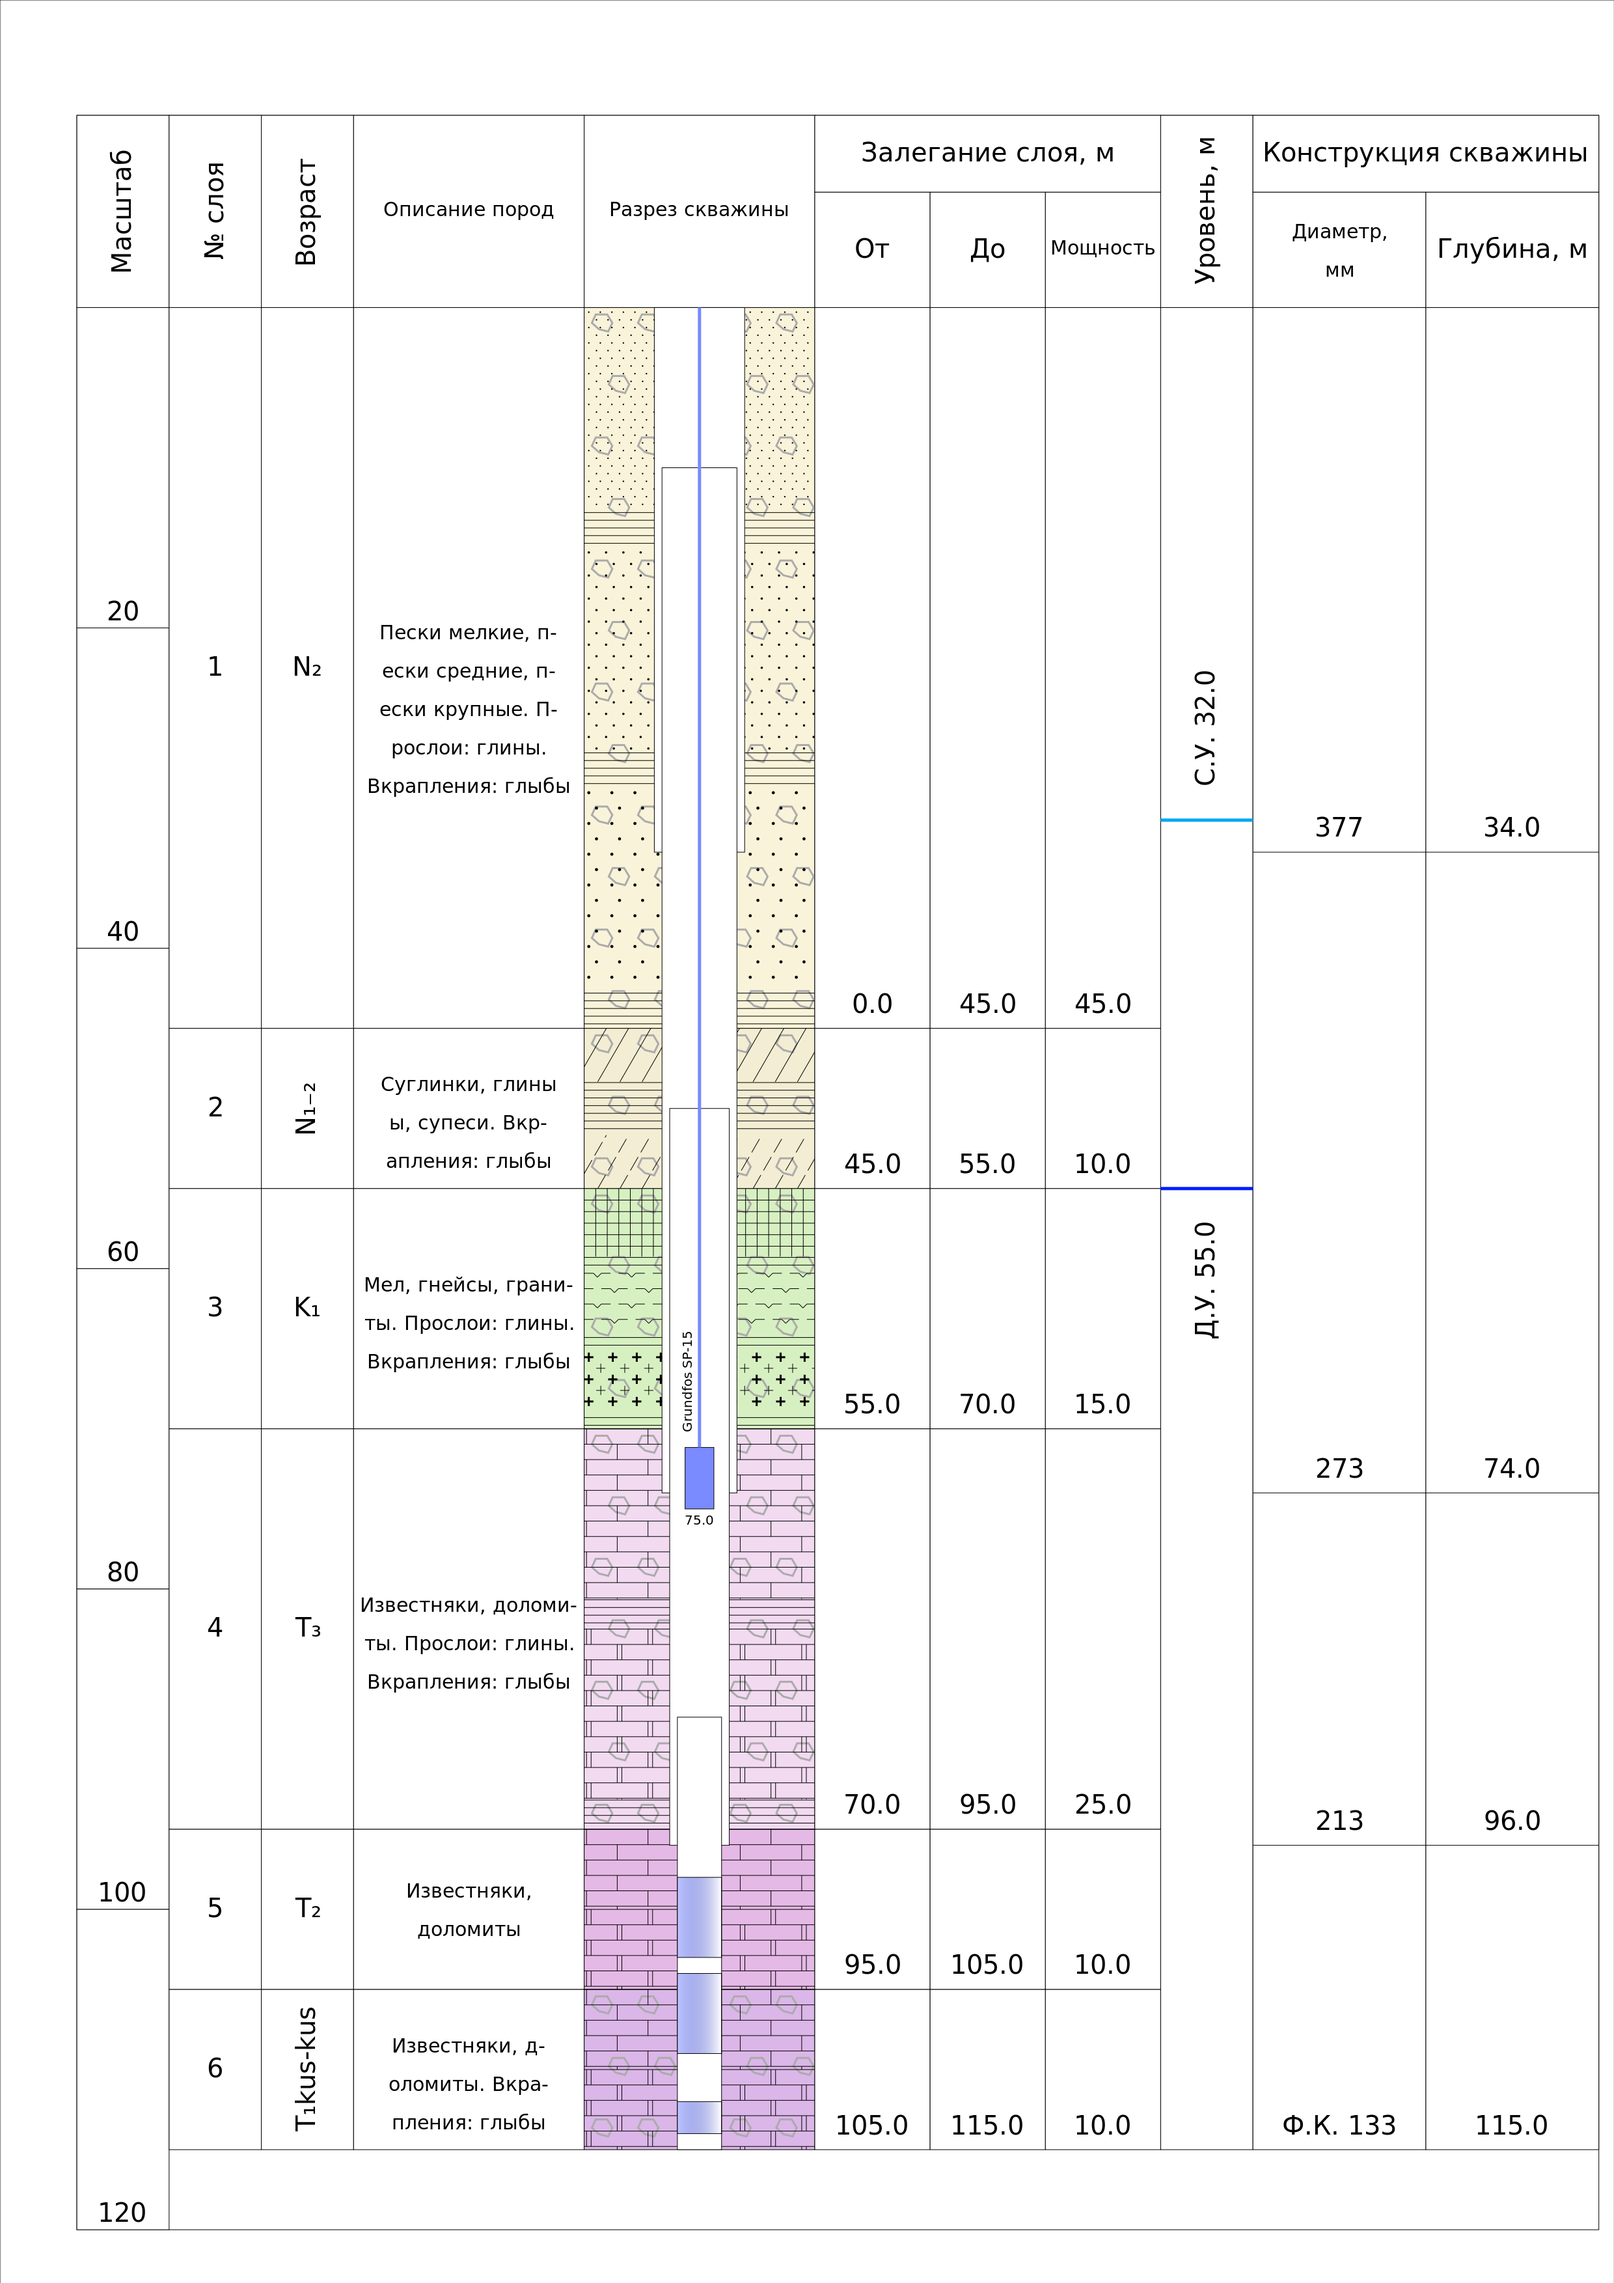
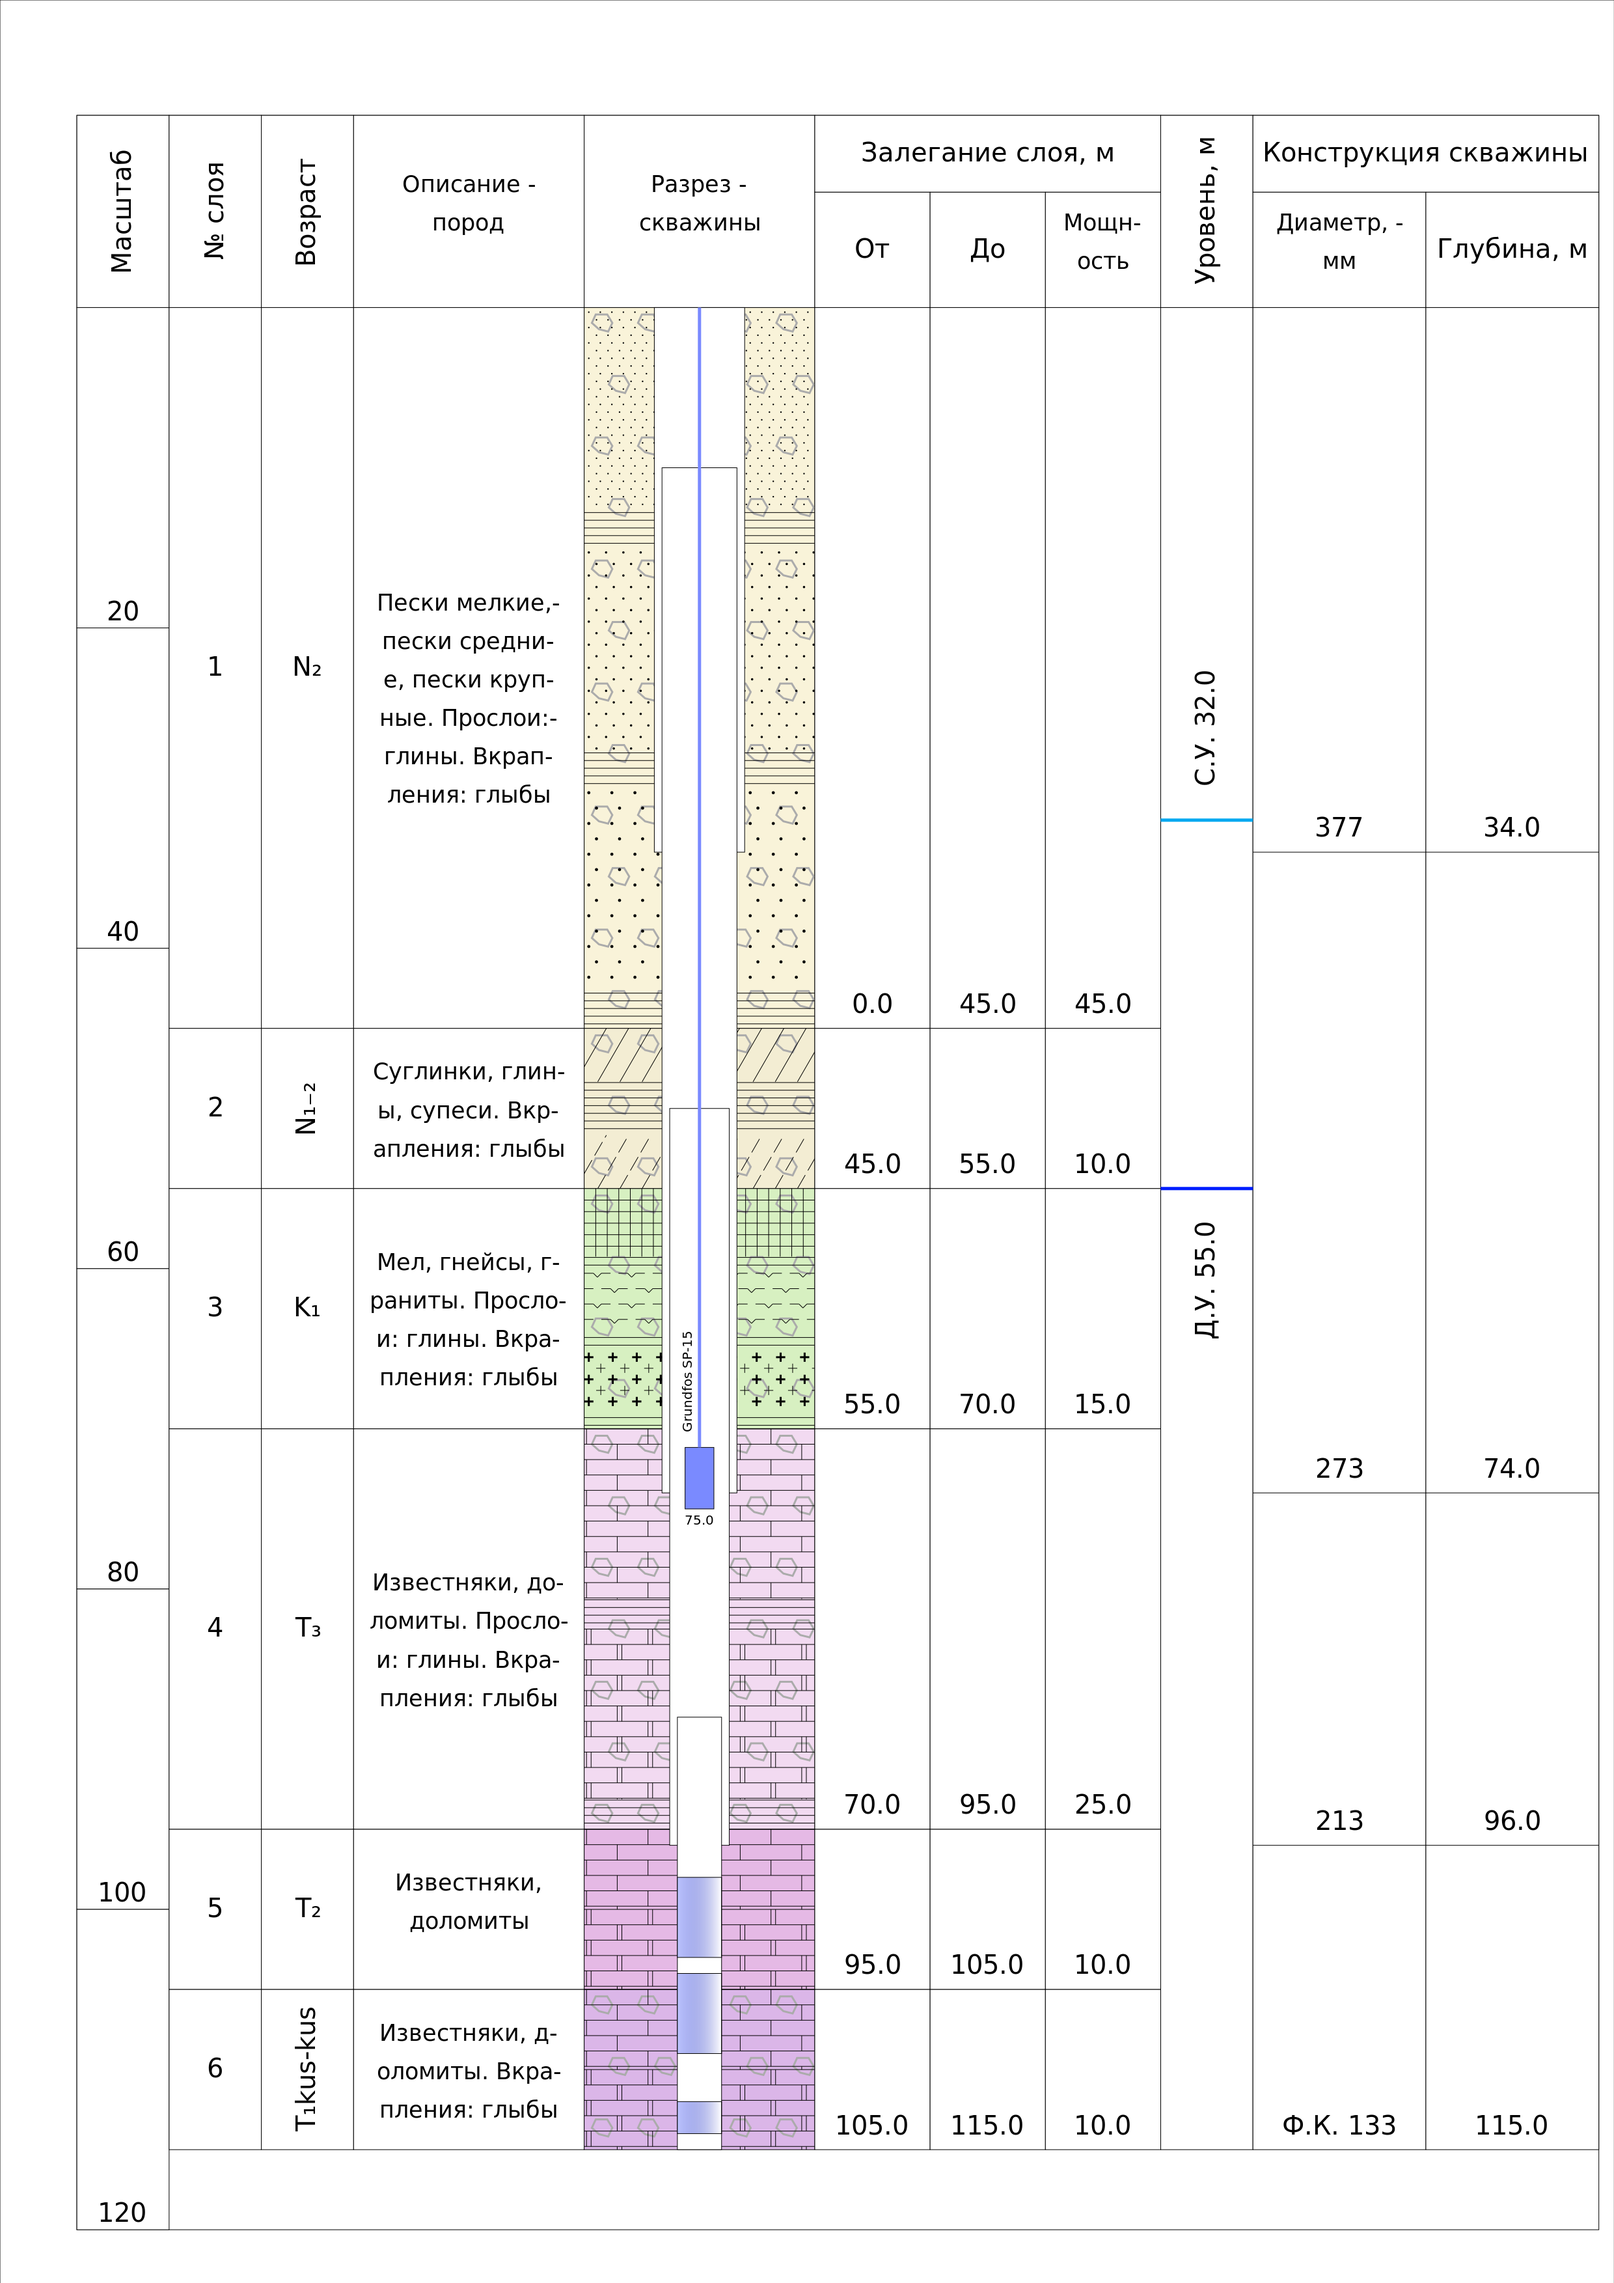
some text fixes

diff --git a/drawing/main.py b/drawing/main.py
@@ -169,16 +169,16 @@ def rectangle(d, x, y, x1, y1, text, direction):
         d.append(draw.Text([text], 40, path=p, text_anchor="middle"))
 
     elif direction == "h":
-        number_str = math.ceil(abs((len(text) * 1.6) / x1))
+        number_str = math.ceil(abs((len(text) * 2.1) / x1))
         # коррекция размера текста (если строк много)
-        if number_str * 5 >= 0.8 * y1:
+        if number_str * 5 >= - 0.8 * y1:
             text_size = 30
             if number_str == 1:
                 central_koef = 6.2
             else:
-                central_koef = 3.5
+                central_koef = 3
         else:
-            text_size = 40
+            text_size = 35
             central_koef = 2.5
         i = 0
         # Первоначальное положение строки
@@ -207,7 +207,7 @@ def rectangle(d, x, y, x1, y1, text, direction):
                 insert = str(text[text_start_step : text_end_step - 1])
             elif str(text[text_end_step - 1]) == " ":
                 insert = str(text[text_start_step : text_end_step - 1])
-            elif str(text[text_end_step]) == ",":
+            if str(text[text_end_step]) == ",":
                 insert = str(text[text_start_step : text_end_step + 1])
             elif str(text[text_end_step]) == ".":
                 insert = str(text[text_start_step : text_end_step + 1])
